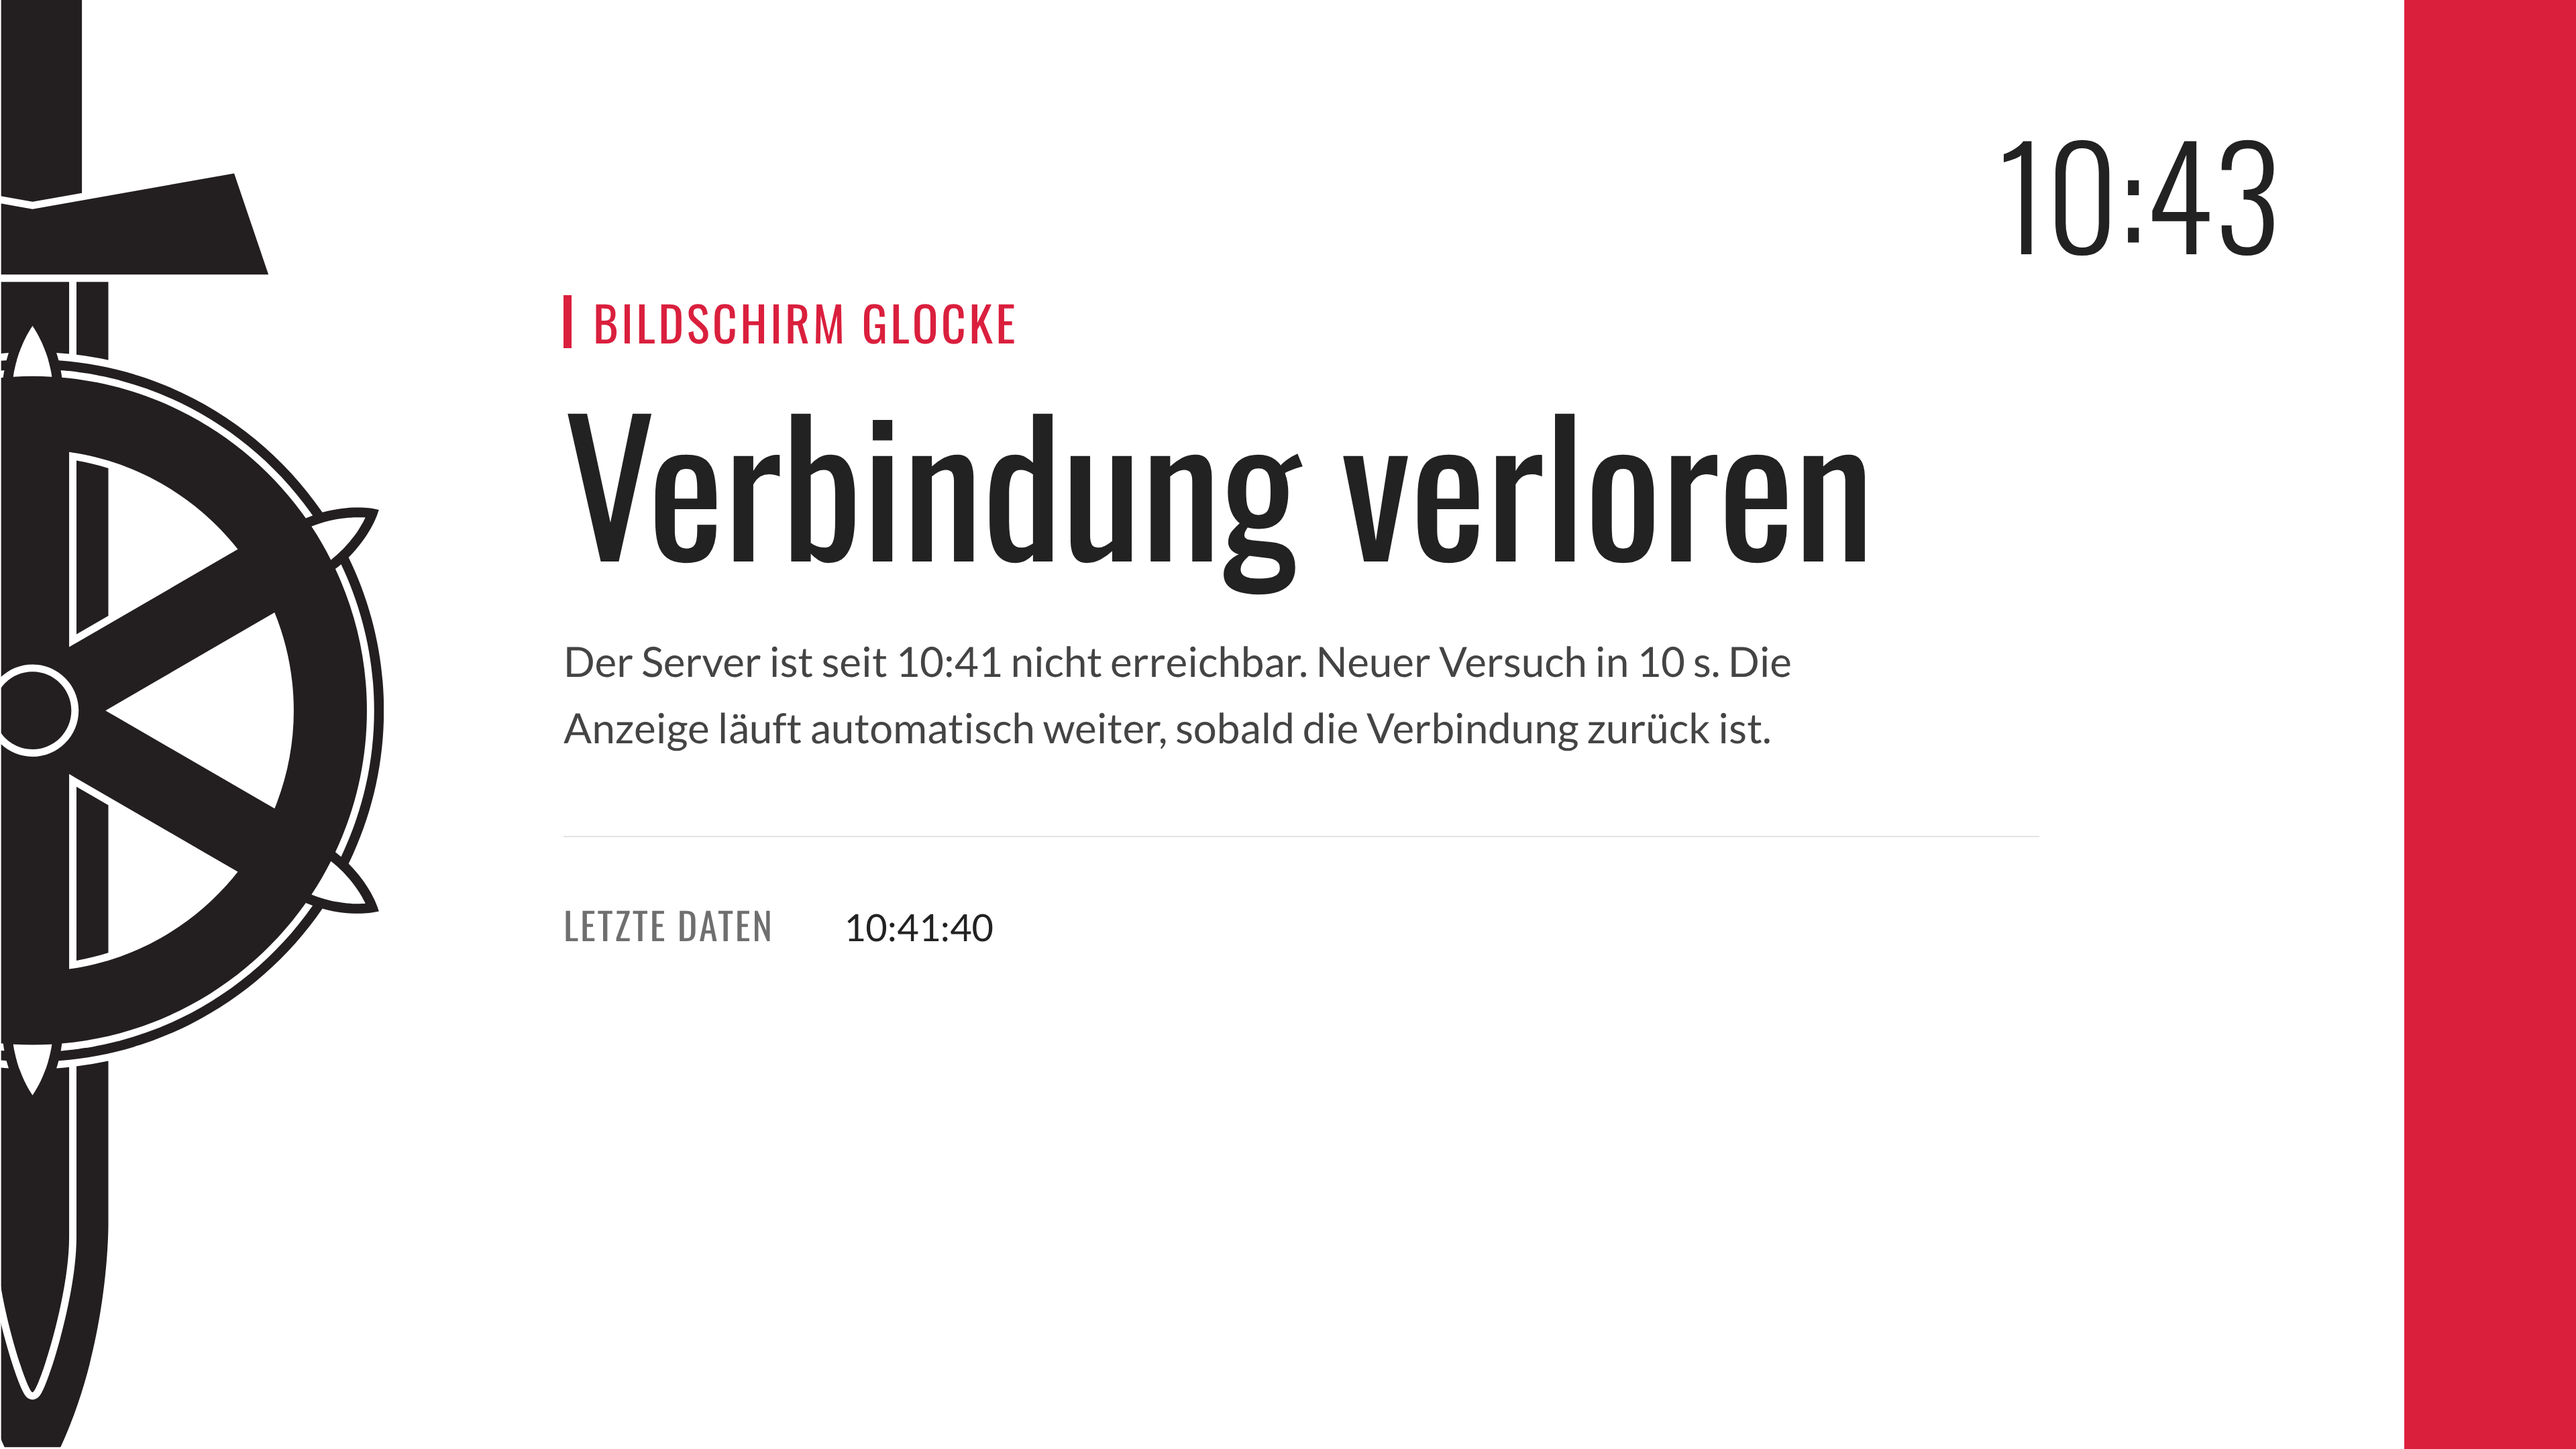
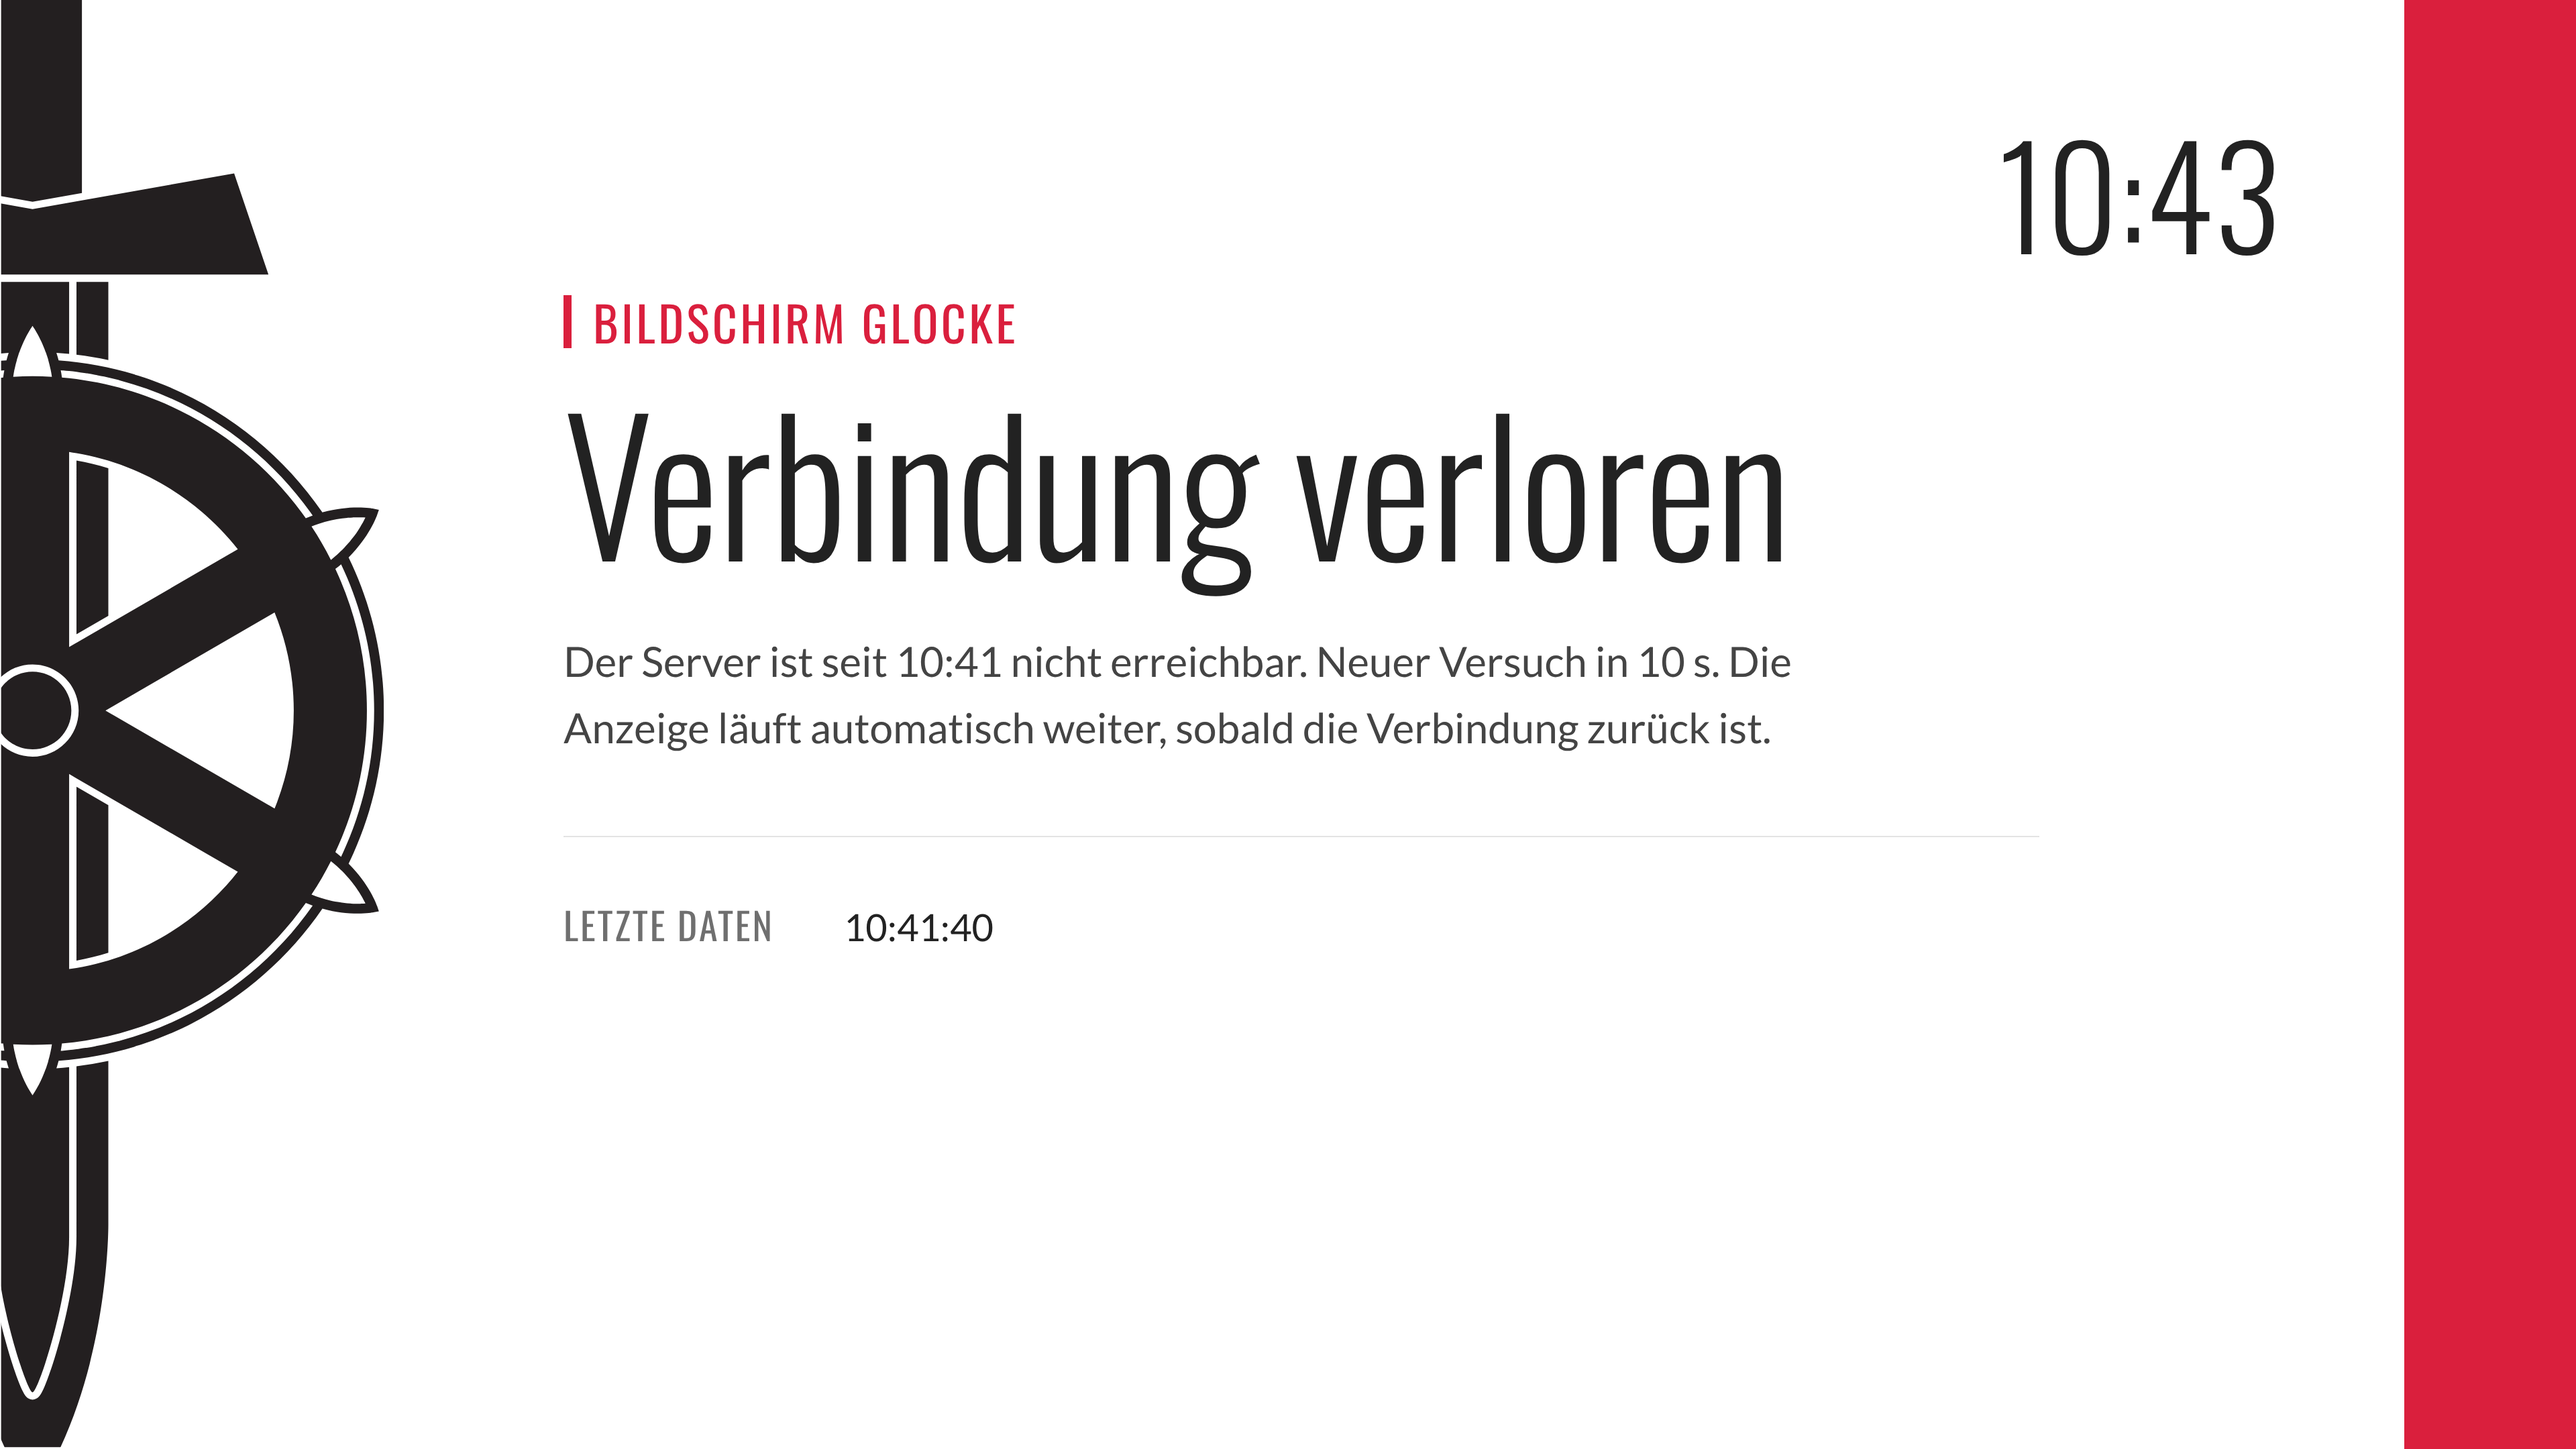
test(display): Screenshot-Abnahme der Anzeige
Volle Matrix (Stile, Hochformat, Zustände), Abfahrten und Info in schmalen
Flächen umgebrochen, Vertretungsspalten angepasst, Zustandstitel font-light,
Null-Guard in ViewScreen, Hinweis bei leerer Info-Ansicht.

Claude-Session: https://claude.ai/code/session_01D7nDH9UeEyBKSeRzQw1WpF

Changed region(s): [[0.2188, 0.2792, 0.75, 0.4343]]

diff --git a/frontend/src/components/display/views/DeparturesView.jsx b/frontend/src/components/display/views/DeparturesView.jsx
@@ -16,10 +16,14 @@ const SUBHEAD_REM = 2.25 // Zwischenüberschrift "Züge" / "Busse"
 // Mindestbreite einer Zeile in em der Zeilenschrift, damit das Ziel lesbar bleibt. In schmalen Karten
 // (Splitscreen) wird die Schrift dafür kleiner, höchstens bis MIN_REM.
 const ROW_EM = { bus: 21, train: 26 }
+const CARD_PAD_REM = 2.75 // horizontale Kartenpolster
+const GAP_REM = 1.25
 
 const hasTrains = (station) => (station.departures || []).some((d) => !isBus(d))
 
 export default function DeparturesView({ view }) {
+  const ref = useRef(null)
+  const { width, remPx } = useBoxSize(ref)
   const stations = view.data?.stations ?? []
   const tall = stations.filter(hasTrains)
   const grid = stations.filter((s) => !hasTrains(s))
@@ -29,8 +33,28 @@ export default function DeparturesView({ view }) {
   if (!stations.length) {
     return <p className="d-oswald pt-[2rem] text-[2rem] text-(--d-muted)">Keine Haltestellen eingerichtet.</p>
   }
+  // Zu schmal für alle Spalten (Splitscreen, viele Haltestellen): ein gleichmäßiges Raster mit so vielen
+  // Spalten, wie die Mindestbreite einer Karte zulässt, statt abgeschnittener Ziele.
+  const cardPx = (ROW_EM[tall.length ? 'train' : 'bus'] * MIN_REM + CARD_PAD_REM) * remPx
+  const gapPx = GAP_REM * remPx
+  const wanted = cols + tall.length
+  const fitCols = Math.max(1, Math.floor((width + gapPx) / (cardPx + gapPx)))
+  if (width > 0 && fitCols < wanted) {
+    return (
+      <div
+        ref={ref}
+        className="grid h-full gap-[1.25rem]"
+        style={{
+          gridTemplateColumns: `repeat(${fitCols}, minmax(0, 1fr))`,
+          gridTemplateRows: `repeat(${Math.ceil(stations.length / fitCols)}, minmax(0, 1fr))`,
+        }}
+      >
+        {[...tall, ...grid].map((s, i) => <StationCard key={`${s.station_id}-${i}`} station={s} />)}
+      </div>
+    )
+  }
   return (
-    <div className="flex h-full gap-[1.25rem]">
+    <div ref={ref} className="flex h-full gap-[1.25rem]">
       {grid.length > 0 && (
         <div
           className="grid min-w-0 gap-[1.25rem]"

diff --git a/frontend/src/components/display/views/InfoView.jsx b/frontend/src/components/display/views/InfoView.jsx
@@ -10,11 +10,25 @@ import { Heading, PageCount } from './parts'
 // Info (Stil A, Entwurf display-info.png): Ankündigungen links, Termine und Countdown rechts,
 // QR-Code in der Ecke. Uhr, Datum und Wetter kommen aus dem Rahmen.
 
+const STACK_BELOW_REM = 70
+
 export default function InfoView({ view }) {
   const { announcements = [], events = [], countdown = null } = view.data ?? {}
   const seconds = view.page_seconds
+  const ref = useRef(null)
+  const { width, remPx } = useBoxSize(ref)
+  // Hochformat und schmale Flächen: Termine unter den Ankündigungen statt in einer zu schmalen Spalte
+  const stacked = width > 0 && width / remPx < STACK_BELOW_REM
+  if (!announcements.length && !events.length && !countdown) {
+    return <p className="d-oswald pt-[3.75rem] text-[2rem] text-(--d-muted)">Keine Ankündigungen oder Termine.</p>
+  }
   return (
-    <div className="relative grid h-full grid-cols-[minmax(0,1fr)_minmax(0,0.77fr)] gap-x-[5rem] pt-[3.75rem]">
+    <div
+      ref={ref}
+      className={`relative grid h-full gap-x-[5rem] pt-[3.75rem] ${stacked
+        ? 'grid-cols-[minmax(0,1fr)] grid-rows-[minmax(0,1fr)_minmax(0,1fr)] gap-y-[2.5rem]'
+        : 'grid-cols-[minmax(0,1fr)_minmax(0,0.77fr)]'}`}
+    >
       <div className="flex min-h-0 flex-col">
         {announcements.length > 0 && (
           <PagedSection title="Ankündigungen" items={announcements} seconds={seconds} renderItem={renderAnnouncement} />

diff --git a/frontend/src/components/display/DisplayRoot.jsx b/frontend/src/components/display/DisplayRoot.jsx
@@ -93,6 +93,7 @@ function ModeSplit({ mode, view, orientation, staleSince }) {
 // Eine Ansicht im Rahmen ihres effektiven Stils. Ansichten mit eigenem Rahmen (Medien, Wechsel) bekommen
 // die Rahmen-Angaben und ViewScreen selbst als screen (für die Unteransichten des Wechsels).
 function ViewScreen({ view, orientation, staleSince = null, wheel = true, stripe = true }) {
+  if (!view) return <Loading orientation={orientation} />
   const View = VIEW_COMPONENTS[view.kind]
   if (View?.ownFrame) {
     return <View view={view} orientation={orientation} frame={{ staleSince, wheel, stripe }} screen={ViewScreen} />

diff --git a/frontend/src/components/display/states/StateScreen.jsx b/frontend/src/components/display/states/StateScreen.jsx
@@ -11,7 +11,7 @@ export default function StateScreen({ state, orientation, kicker, title, titleCl
           {kicker && (
             <div className="d-kicker d-oswald text-[2.25rem] uppercase leading-[1.1] tracking-[0.06em] text-(--d-red)">{kicker}</div>
           )}
-          <h1 className={`d-oswald mt-[1.25rem] text-[8.5rem] font-normal leading-[1.15] tracking-[-0.005em] ${titleClassName}`}>{title}</h1>
+          <h1 className={`d-oswald mt-[1.25rem] text-[8.5rem] font-light leading-[1.15] tracking-[-0.005em] ${titleClassName}`}>{title}</h1>
           {children}
         </div>
       </div>

diff --git a/frontend/src/components/display/views/SubstitutionsView.jsx b/frontend/src/components/display/views/SubstitutionsView.jsx
@@ -9,7 +9,7 @@ import { Heading, PageCount } from './parts'
 
 const LIVE_SOURCES = ['substitutions', 'timetable']
 const ROW_REM = 2.1875
-const COLUMNS = '7fr 5fr 6fr 12fr 18fr 17fr 25fr'
+const COLUMNS = '7fr 5fr 6fr 14fr 15fr 20fr 23fr'
 const KIND = {
   substitution: { label: 'Vertretung', tone: '' },
   cancelled: { label: 'Entfall', tone: 'text-(--d-red)' },

diff --git a/docs/superpowers/screenshots/2026-10-19-monitor/README.md b/docs/superpowers/screenshots/2026-10-19-monitor/README.md
@@ -1,0 +1,86 @@
+# Screenshots der Anzeige (2026-10-19)
+
+Erzeugt mit `cd frontend && node scripts/shoot-display.mjs` (3840x2160, Hochformat 2160x3840). Testdaten: `frontend/tests/display-fixtures/`.
+
+Namensschema: `display-<testdatei>[-<stil>][-portrait].png`. Ohne Stilangabe gilt der Stil der Testdatei; `-ci`, `-dense`, `-dark` überschreiben `view.style`. Vollflächige Sondermodi (Notfall, Klausur, On-Air) sehen in allen Stilen gleich aus; bei Splitscreen-Sondermodi gilt der Stil für die Ansicht daneben. Ruhemodus und Zustandsbilder sind stilunabhängig und nur einmal vorhanden.
+
+| Bild | Zeigt |
+|---|---|
+| `display-departures-ci-portrait.png` | Abfahrten, Stil ci, Hochformat |
+| `display-departures-ci.png` | Abfahrten, Stil ci |
+| `display-departures-dark-portrait.png` | Abfahrten, Stil dark, Hochformat |
+| `display-departures-dark.png` | Abfahrten, Stil dark |
+| `display-departures-dense-portrait.png` | Abfahrten, Stil dense, Hochformat |
+| `display-departures-dense.png` | Abfahrten, Stil dense |
+| `display-departures.png` | Abfahrten |
+| `display-idle.png` | Ruhemodus (Power aus) |
+| `display-info-ci-portrait.png` | Info, Stil ci, Hochformat |
+| `display-info-ci.png` | Info, Stil ci |
+| `display-info-dark-portrait.png` | Info, Stil dark, Hochformat |
+| `display-info-dark.png` | Info, Stil dark |
+| `display-info-dense-portrait.png` | Info, Stil dense, Hochformat |
+| `display-info-dense.png` | Info, Stil dense |
+| `display-info.png` | Info |
+| `display-long-departures-ci.png` | Abfahrten, 6 Haltestellen, Stil ci |
+| `display-long-departures-dark.png` | Abfahrten, 6 Haltestellen, Stil dark |
+| `display-long-departures-dense.png` | Abfahrten, 6 Haltestellen, Stil dense |
+| `display-long-departures.png` | Abfahrten, 6 Haltestellen |
+| `display-long-substitutions-ci.png` | Vertretungsplan, viele Zeilen (Seitenwechsel), Stil ci |
+| `display-long-substitutions-dark.png` | Vertretungsplan, viele Zeilen (Seitenwechsel), Stil dark |
+| `display-long-substitutions-dense.png` | Vertretungsplan, viele Zeilen (Seitenwechsel), Stil dense |
+| `display-long-substitutions.png` | Vertretungsplan, viele Zeilen (Seitenwechsel) |
+| `display-lost.png` | Zustand Verbindung verloren |
+| `display-media-landscape-ci.png` | Medien Querformat, Stil ci |
+| `display-media-landscape-dark.png` | Medien Querformat, Stil dark |
+| `display-media-landscape-dense.png` | Medien Querformat, Stil dense |
+| `display-media-landscape.png` | Medien Querformat |
+| `display-media-portrait-ci-portrait.png` | Medien Hochformat, Stil ci, Hochformat |
+| `display-media-portrait-ci.png` | Medien Hochformat, Stil ci |
+| `display-media-portrait-dark-portrait.png` | Medien Hochformat, Stil dark, Hochformat |
+| `display-media-portrait-dark.png` | Medien Hochformat, Stil dark |
+| `display-media-portrait-dense-portrait.png` | Medien Hochformat, Stil dense, Hochformat |
+| `display-media-portrait-dense.png` | Medien Hochformat, Stil dense |
+| `display-media-portrait.png` | media, Hochformat |
+| `display-mode-emergency-ci.png` | Sondermodus Notfall, Stil ci |
+| `display-mode-emergency-dark.png` | Sondermodus Notfall, Stil dark |
+| `display-mode-emergency-dense.png` | Sondermodus Notfall, Stil dense |
+| `display-mode-emergency-lost.png` | Sondermodus Notfall, Verbindung verloren (Notfall bleibt stehen) |
+| `display-mode-emergency.png` | Sondermodus Notfall |
+| `display-mode-exam-full-ci.png` | Klausur vollflächig, Stil ci |
+| `display-mode-exam-full-dark.png` | Klausur vollflächig, Stil dark |
+| `display-mode-exam-full-dense.png` | Klausur vollflächig, Stil dense |
+| `display-mode-exam-full.png` | Klausur vollflächig |
+| `display-mode-exam-split-ci.png` | Klausur im Splitscreen, Stil ci |
+| `display-mode-exam-split-dark.png` | Klausur im Splitscreen, Stil dark |
+| `display-mode-exam-split-dense.png` | Klausur im Splitscreen, Stil dense |
+| `display-mode-exam-split.png` | Klausur im Splitscreen |
+| `display-mode-onair-full-ci.png` | On-Air vollflächig, Stil ci |
+| `display-mode-onair-full-dark.png` | On-Air vollflächig, Stil dark |
+| `display-mode-onair-full-dense.png` | On-Air vollflächig, Stil dense |
+| `display-mode-onair-full-stale.png` | On-Air vollflächig, Daten veraltet (Stand HH:MM) |
+| `display-mode-onair-full.png` | On-Air vollflächig |
+| `display-mode-onair-split-ci.png` | On-Air im Splitscreen, Stil ci |
+| `display-mode-onair-split-dark.png` | On-Air im Splitscreen, Stil dark |
+| `display-mode-onair-split-dense.png` | On-Air im Splitscreen, Stil dense |
+| `display-mode-onair-split.png` | On-Air im Splitscreen |
+| `display-rotation-ci.png` | Wechsel (Unteransicht Info), Stil ci |
+| `display-rotation-dark.png` | Wechsel (Unteransicht Info), Stil dark |
+| `display-rotation-dense.png` | Wechsel (Unteransicht Info), Stil dense |
+| `display-rotation.png` | Wechsel (Unteransicht Info) |
+| `display-screen-not-found.png` | Unbekannter Bildschirm |
+| `display-split-ci.png` | Splitscreen Vertretungsplan und Abfahrten, Stil ci |
+| `display-split-dark.png` | Splitscreen Vertretungsplan und Abfahrten, Stil dark |
+| `display-split-dense.png` | Splitscreen Vertretungsplan und Abfahrten, Stil dense |
+| `display-split.png` | Splitscreen Vertretungsplan und Abfahrten |
+| `display-stale.png` | Zustand Daten veraltet (Stand HH:MM) |
+| `display-substitutions-ci-portrait.png` | Vertretungsplan, Stil ci, Hochformat |
+| `display-substitutions-ci.png` | Vertretungsplan, Stil ci |
+| `display-substitutions-dark-portrait.png` | Vertretungsplan, Stil dark, Hochformat |
+| `display-substitutions-dark.png` | Vertretungsplan, Stil dark |
+| `display-substitutions-dense-portrait.png` | Vertretungsplan, Stil dense, Hochformat |
+| `display-substitutions-dense.png` | Vertretungsplan, Stil dense |
+| `display-substitutions-fallback-ci.png` | Vertretungsplan, WebUntis-iframe als Ausweichseite, Stil ci |
+| `display-substitutions-fallback-dark.png` | Vertretungsplan, WebUntis-iframe als Ausweichseite, Stil dark |
+| `display-substitutions-fallback-dense.png` | Vertretungsplan, WebUntis-iframe als Ausweichseite, Stil dense |
+| `display-substitutions-fallback.png` | Vertretungsplan, WebUntis-iframe als Ausweichseite |
+| `display-substitutions.png` | Vertretungsplan |
